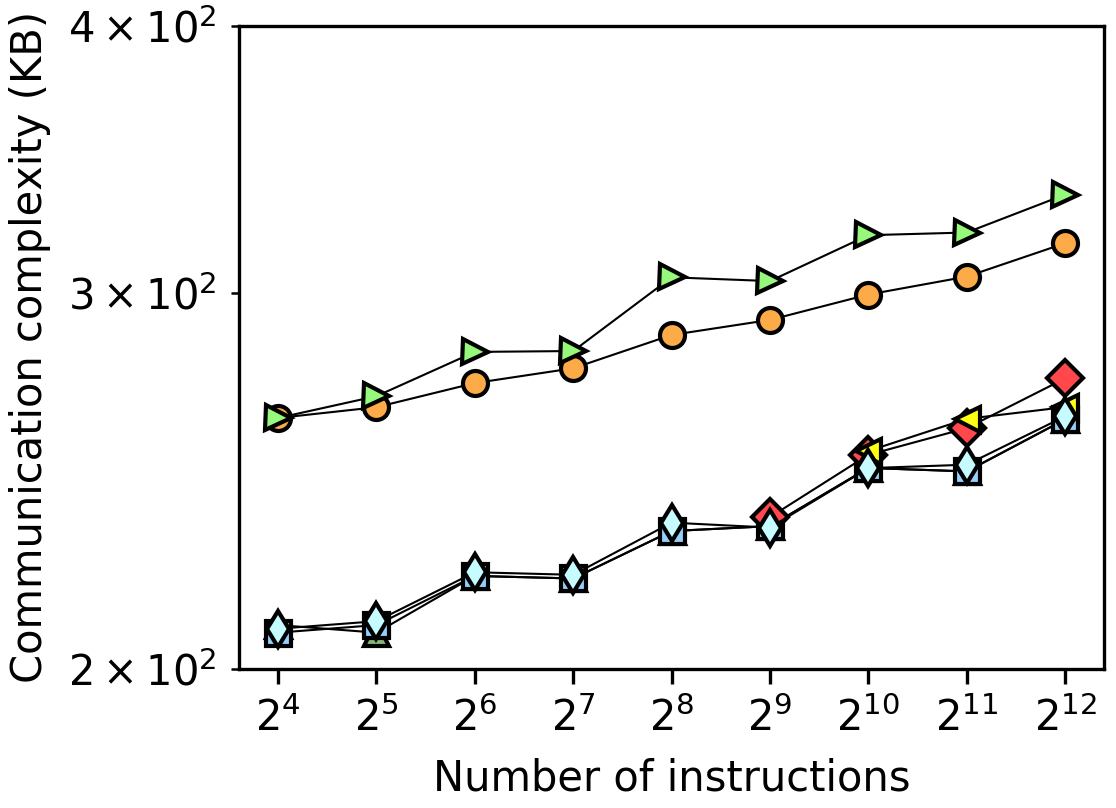
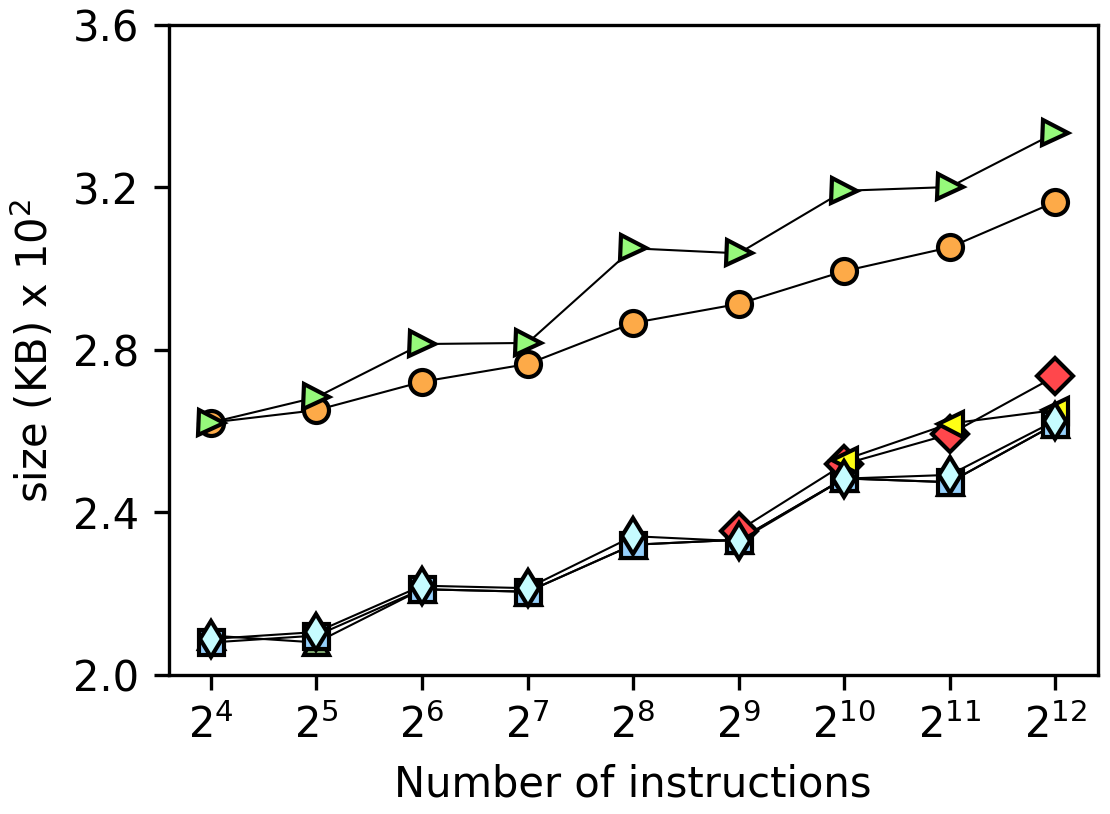
Minor changes in plot axes

diff --git a/plots/allbenchmarks.py b/plots/allbenchmarks.py
@@ -49,6 +49,22 @@ pir = {   'prover' : [ 0.064583, 0.091351, 0.156915, 0.247922, 0.466817, 0.90013
             'verifier' : [ 0.021196, 0.021694, 0.022259, 0.021678, 0.023074, 0.022746, 0.022842, 0.022164, 0.023204 ],
             'communication' : [ 208.796875, 210.500000, 221.906250, 221.296875, 234.093750, 232.859375, 248.265625, 249.187500, 262.531250 ] }
 
+for i in range(len(factorial['communication'])):
+    if factorial['communication'][i] is not None:
+        factorial['communication'][i] /= 100
+    if fibonacci['communication'][i] is not None:
+        fibonacci['communication'][i] /= 100
+    if collatz['communication'][i] is not None:
+        collatz['communication'][i] /= 100
+    if speck['communication'][i] is not None:
+        speck['communication'][i] /= 100
+    if simon['communication'][i] is not None:
+        simon['communication'][i] /= 100
+    if mmult['communication'][i] is not None:
+        mmult['communication'][i] /= 100
+    if pir['communication'][i] is not None:
+        pir['communication'][i] /= 100
+
 N = len(factorial[benchmark])
 index = np.arange(N)  # the x locations for the groups
 
@@ -64,18 +80,19 @@ l6 = ax.plot(index, mmult[benchmark], linestyle='solid', color='black', markerfa
 l7 = ax.plot(index, pir[benchmark], linestyle='solid', color='black', markerfacecolor='xkcd:light sky blue', marker='d', linewidth=0.5, markersize=6)
 
 
-ax.set_yscale('log')
 if benchmark == 'prover':
+    ax.set_yscale('log')
     ax.set_ylim([0.05, 100])
     ax.set_ylabel('time (sec.)')
     ax.legend((l1[0], l2[0], l3[0], l4[0], l5[0], l6[0], l7[0]), legend, fontsize=9, ncol=1, loc='upper left')
 if benchmark == 'verifier':
+    ax.set_yscale('log')
     ax.set_ylim([0.01, 0.2])
     ax.set_ylabel('time (sec.)')
     # ax.legend((l1[0], l2[0], l3[0], l4[0], l5[0], l6[0], l7[0]), legend, fontsize=9, ncol=2, loc='upper left')
 elif benchmark == 'communication':
-    ax.set_ylim([200, 400])
-    ax.set_ylabel('Communication complexity (KB)')
+    ax.set_yticks(np.arange(2, 4, 0.4))
+    ax.set_ylabel('size (KB) x $10^2$')
     # ax.legend((l1[0], l2[0], l3[0], l4[0], l5[0], l6[0], l7[0]), legend, fontsize=9, ncol=2, loc='upper left')
 ax.set_xticks(index)
 ax.set_xlabel('Number of instructions')

diff --git a/plots/instructions.py b/plots/instructions.py
@@ -29,7 +29,7 @@ ax.set_ylim([0.01, 100])
 ax.set_ylabel("time (sec.)")
 ax.set_xticks(index)
 ax.set_xlabel('Number of instructions')
-ax.set_xticklabels(['16', '32', '64', '128', '256', '512', '1024', '2048', '4096'])
+ax.set_xticklabels(['$2^4$', '$2^5$', '$2^6$', '$2^7$', '$2^8$', '$2^9$', '$2^{10}$', '$2^{11}$', '$2^{12}$'])
 ax.legend((l1[0], l2[0], l3[0], l4[0]), legend, fontsize=9, ncol=2, loc='upper left')
 
 
